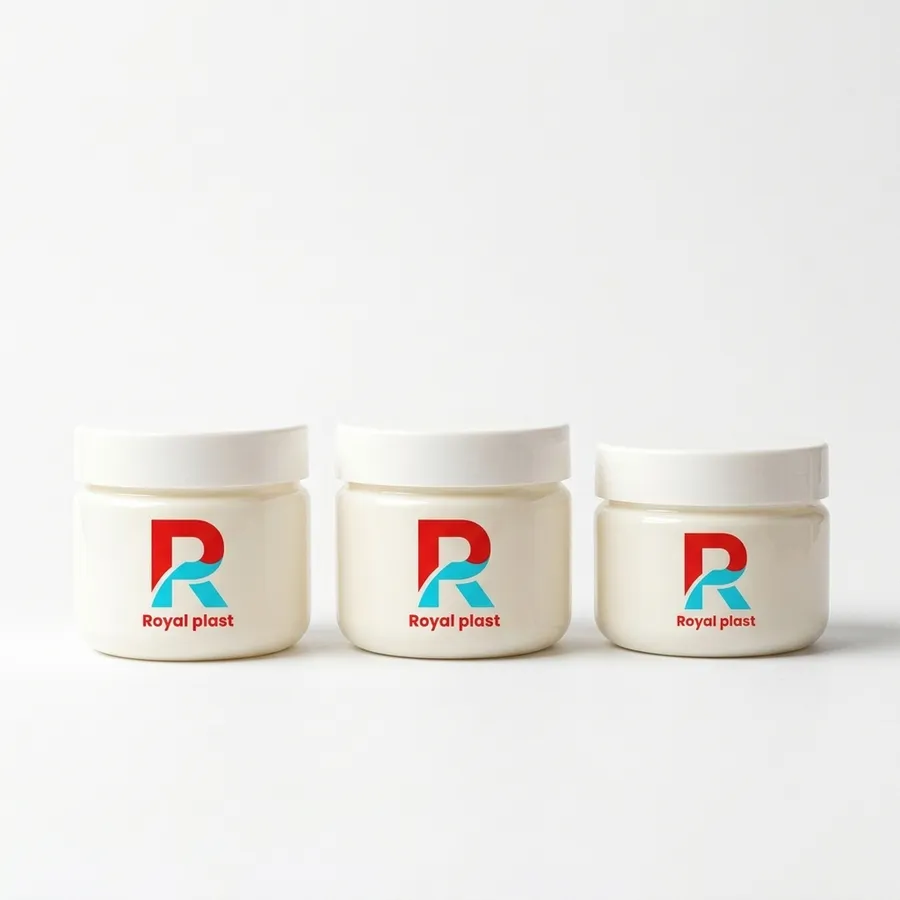
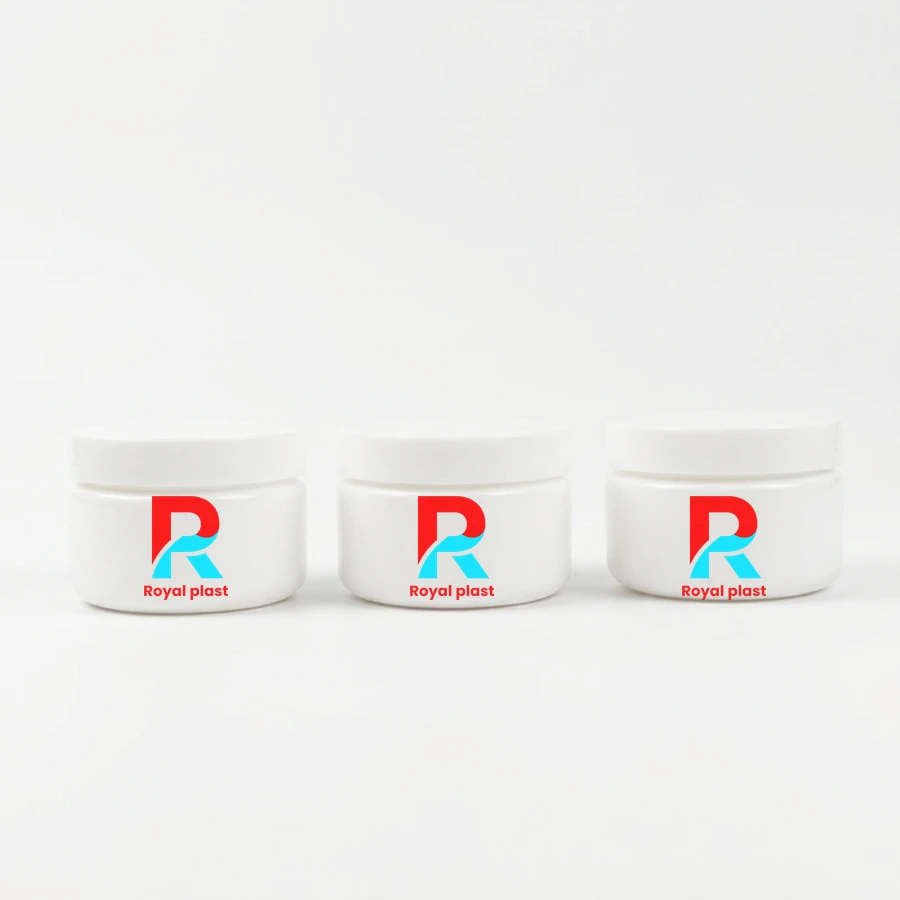
RP-161: regenerate jars image from original
Claude-Session: https://claude.ai/code/session_01RHpAwk7S9yFShcnyhoKaQD

Changed region(s): [[0.0933, 0.4667, 1.0, 0.7467]]

diff --git a/app.js b/app.js
@@ -55,7 +55,7 @@ function fullTitle(p){return `${t(p.cat=='jar'?'jar':'bottle')} ${sizesTxt(p)}`.
 function sub(p){if(p.nospec)return t('nospec');const a=[];if(p.necks.length)a.push(p.necks.map(n=>'NK'+n).join(' / '));p.caps.forEach(c=>a.push(capName(c)));p.extra.forEach(e=>a.push(lang=='ar'?e.ar:e.en));return a.join(' · ')}
 const colTxt=p=>p.colors.map(c=>t(c)).join('، ').replace(/،/g,lang=='ar'?'، ':', ');
 const dotsHTML=p=>`<span class="dots">${p.colors.map(c=>`<i class="dot d-${c}" title="${t(c)}"></i>`).join('')}</span>`;
-const IMGV='20261110f';const imgU=n=>`img/${n}.webp?v=${IMGV}`,thU=n=>`t/${n}.webp?v=${IMGV}`;
+const IMGV='20261110g';const imgU=n=>`img/${n}.webp?v=${IMGV}`,thU=n=>`t/${n}.webp?v=${IMGV}`;
 function reveal(root){const io=new IntersectionObserver(es=>es.forEach(e=>{if(e.isIntersecting){e.target.classList.add('in');io.unobserve(e.target)}}),{threshold:.12,rootMargin:'0px 0px -40px 0px'});
  (root||document).querySelectorAll('.rv:not(.in)').forEach(el=>io.observe(el))}
 function applyLang(){document.documentElement.lang=lang;document.documentElement.dir=lang=='ar'?'rtl':'ltr';
